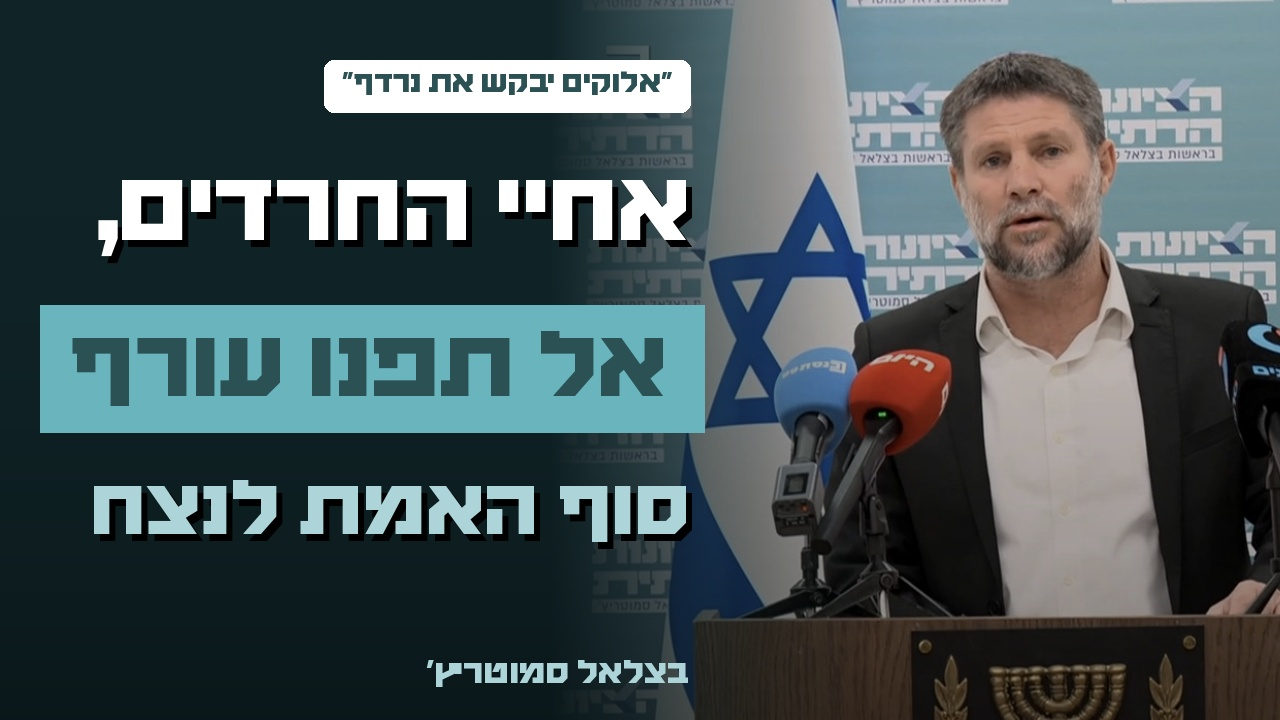
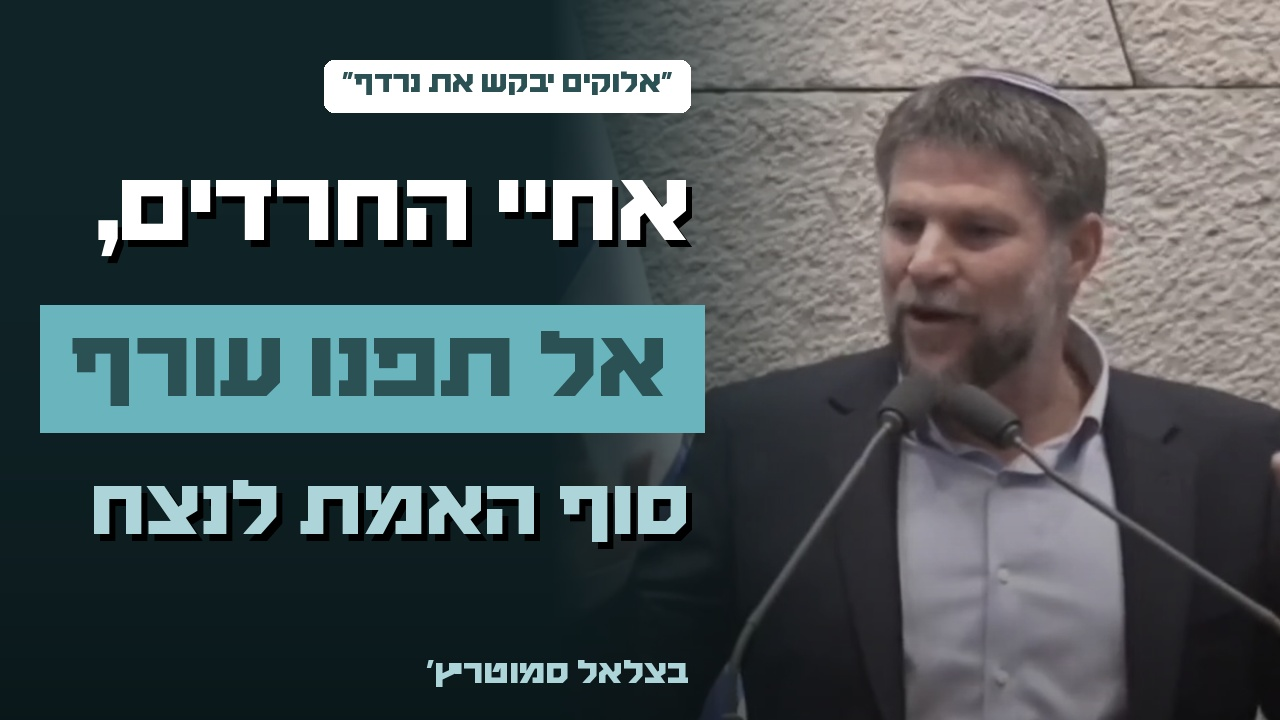
Haredim YT cover: updated plenum photo
Claude-Session: https://claude.ai/code/session_01RS3QK6pAd3YhyAuXZSJjH1

diff --git a/content-kit/hatzionut-hadatit/2026-11-yt-thumb-haredim-nirdaf/make.py b/content-kit/hatzionut-hadatit/2026-11-yt-thumb-haredim-nirdaf/make.py
@@ -15,7 +15,7 @@ def fit(txt, size, maxw):
 from PIL import ImageEnhance
 src = Image.open(HERE + '/source.jpg').convert('RGB'); sc = 740 / src.height; src = src.resize((int(src.width * sc), 740), Image.LANCZOS)
 src = ImageEnhance.Brightness(ImageEnhance.Color(src).enhance(.9)).enhance(.82)
-im = Image.new('RGBA', (W, H), (16, 36, 40, 255)); X = 400   # pushes him to the right third
+im = Image.new('RGBA', (W, H), (16, 36, 40, 255)); X = 430   # pushes him to the right third
 im.paste(src, (X, 0))
 fade = Image.new('RGBA', (W, H), (0, 0, 0, 0)); fd = ImageDraw.Draw(fade)
 for x in range(W):
